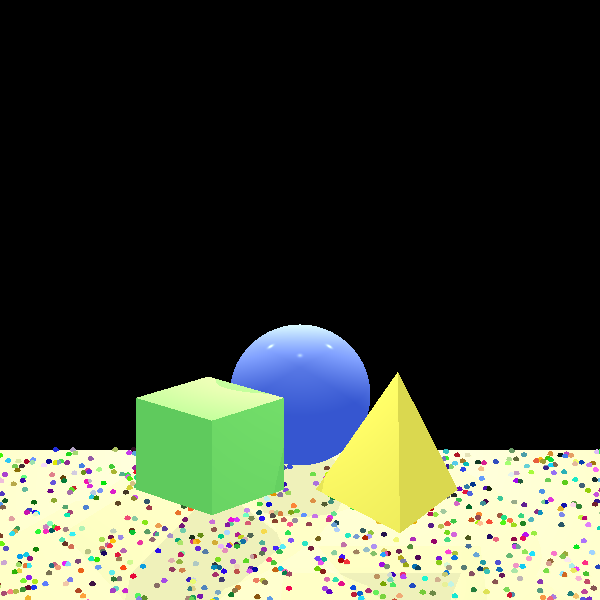
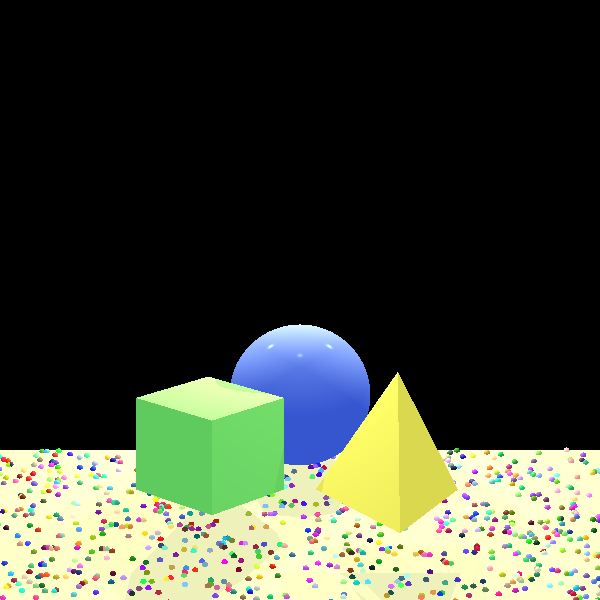
עוד מעט בעז"הה

Changed region(s): [[0.0, 0.75, 1.0, 1.0]]

diff --git a/src/geometries/Intersectable.java b/src/geometries/Intersectable.java
@@ -2,6 +2,7 @@ package geometries;
 
 import primitives.Point3D;
 import primitives.Ray;
+import primitives.Vector;
 
 import java.util.List;
 import java.util.stream.Collectors;
@@ -93,22 +94,33 @@ public interface Intersectable {
     /**
      * class for box of every intersectable for BVH
      */
-    public class Box {
+    class Box {
         private Point3D _upRightBehind;//the up right point
         private Point3D _downLeftFront;//the down left point
         private Point3D _center;//the center point, for the distance between the boxes
 
+        /**
+         * constructor
+         * @param upRightBehind
+         * @param downLeftFront
+         * @param center
+         */
         public Box(Point3D upRightBehind, Point3D downLeftFront, Point3D center) {
             _upRightBehind = upRightBehind;
             _downLeftFront = downLeftFront;
             _center = center;
         }
 
+        /**
+         * default constructor
+         */
         public Box() {
             _upRightBehind = new Point3D(0, 0, 0);
             _downLeftFront = new Point3D(0, 0, 0);
             _center = new Point3D(0, 0, 0);
         }
+
+
 
         //getters
         public Point3D getUpRightBehind() {
@@ -134,6 +146,81 @@ public interface Intersectable {
 
         public void setCenter(Point3D center) {
             _center = center;
+        }
+
+        public boolean isIntersectBox(Ray ray){
+            Point3D P0=ray.getP0();
+            double xP0=P0.getX();
+            double yP0=P0.getY();
+            double zP0=P0.getZ();
+
+            Vector dir=ray.getDir();
+            double xDir=dir.getHead().getX();
+            double yDir=dir.getHead().getY();
+            double zDir=dir.getHead().getZ();
+
+            double xMin=_upRightBehind.getX();
+            double yMin=_upRightBehind.getY();
+            double zMin=_upRightBehind.getZ();
+            double xMax=_downLeftFront.getX();
+            double yMax=_downLeftFront.getY();
+            double zMax=_downLeftFront.getZ();
+
+            double tMinX,tMaxX;
+
+            if(xDir>=0){//the value x of the vector is positive
+                tMinX=(xMin-xP0)/xDir;
+                tMaxX=(xMax-xP0)/xDir;
+            }
+            else{
+                tMinX=(xMax-xP0)/xDir;
+                tMaxX=(xMin-xP0)/xDir;
+            }
+
+            double tMinY,tMaxY;
+
+            if(yDir>=0){
+                tMinY=(yMin-yP0)/yDir;
+                tMaxY=(yMax-yP0)/yDir;
+            }
+            else{
+                tMinY=(yMax-yP0)/yDir;
+                tMaxY=(yMin-yP0)/yDir;
+            }
+
+            if((tMinX>tMaxY)||(tMinY>tMaxX)){
+                return false;
+            }
+
+            if(tMinY>tMinX){//????
+                tMinX=tMinY;
+            }
+            if(tMaxY<tMaxX){
+                tMaxX=tMaxY;
+            }
+
+            double tMinZ,tMaxZ;
+
+            if(zDir>=0){
+                tMinZ=(zMin-zP0)/zDir;
+                tMaxZ=(zMax-zP0)/zDir;
+            }
+            else{
+                tMinZ=(zMax-zP0)/zDir;
+                tMaxZ=(zMin-zP0)/zDir;
+            }
+
+            if((tMinX>tMaxZ)||(tMinZ>tMaxX)){
+                return false;
+            }
+
+            if(tMinZ>tMinX){
+                tMinX=tMinZ;
+            }
+            if(tMaxZ<tMaxX){
+                tMaxX=tMaxZ;
+            }
+            return true;
         }
 
     }

diff --git a/src/geometries/Geometries.java b/src/geometries/Geometries.java
@@ -12,8 +12,23 @@ import java.util.List;
 public class Geometries implements Intersectable {
 
     List<Intersectable> _listGeometries = new LinkedList<>();
-    //field for box of couple of boxes. to union
+    /**
+     * field for box of couple of boxes, to union both boxes
+     */
     Box _box = new Box();
+
+    /**
+     * field to check if the BVH improvement is off or on (false is on, true is off)
+     */
+    boolean _BVHImprovementOff=true;
+
+    /**
+     * setter for the on/off improvement
+     * @param BVH
+     */
+    public void setBVHImprovementOff(boolean BVH) {
+        _BVHImprovementOff = BVH;
+    }
 
     /**
      * setter for the box
@@ -67,16 +82,18 @@ public class Geometries implements Intersectable {
     public List<GeoPoint> findGeoIntersections(Ray ray, double maxDistance) {
         List<GeoPoint> intersections = null;
         for (Intersectable geometry : _listGeometries) {
-            List<GeoPoint> geoIntersections = geometry.findGeoIntersections(ray, maxDistance);
-            //if the list is not empty
-            if (geoIntersections != null) {
-                //if it is the first time to add intersection
-                if (intersections == null) {
-                    intersections = new LinkedList<>();
+            if (_BVHImprovementOff || geometry.getBox().isIntersectBox(ray)) {//check if the ray intersect the box of the geometry at all
+                List<GeoPoint> geoIntersections = geometry.findGeoIntersections(ray, maxDistance);
+                //if the list is not empty
+                if (geoIntersections != null) {
+                    //if it is the first time to add intersection
+                    if (intersections == null) {
+                        intersections = new LinkedList<>();
+                    }
+                    intersections.addAll(geoIntersections);
                 }
-                intersections.addAll(geoIntersections);
+                // if there are elements in geoIntersections – add them to intersections
             }
-            // if there are elements in geoIntersections – add them to intersections
         }
         return intersections;
     }
@@ -103,6 +120,12 @@ public class Geometries implements Intersectable {
         return new Box(p1, p2, p3);
     }
 
+    /**
+     * function that build the 'tree' that save the geometries
+     * we build it as list inside list
+     * at first we remove all the infinity geometries from the list
+     * then we insert all the finite geometries to the binary tree
+     */
     public void buildHierarchicalBVH() {
         //remove all the infinity geometries from the list
         List<Intersectable> inifinityGeometries=new LinkedList<>();

diff --git a/test/renderer/ReflectionRefractionTests.java b/test/renderer/ReflectionRefractionTests.java
@@ -219,19 +219,23 @@ public class ReflectionRefractionTests {
     double x= Math.random()*100+1;
     double y=(Math.random()*100+50)*-1;
         for (int i = 0; i < 1000; i++) {
-            scene._geometries.add(new Sphere(new Point3D(x,y,(-5*y-250)/3),1).setEmission(new Color(Math.random()*255+1,Math.random()*255+1,Math.random()*255+1)));
+            scene._geometries.add(new Sphere(new Point3D(x,y,(-5*y-250)/3),1).setEmission(new Color(Math.random()*255+1,Math.random()*255+1,Math.random()*255+1))
+            .setMaterial(new Material().setKd(0.8).setkT(0.02).setkR(0).setKs(1).setnShininess(300)));
              x= Math.random()*100+1;
              y=(Math.random()*110+50)*-1;
 
         }
 
         for (int i = 0; i < 1000; i++) {
-            scene._geometries.add(new Sphere(new Point3D(x,y,(-5*y-250)/3),1).setEmission(new Color(Math.random()*255+1,Math.random()*255+1,Math.random()*255+1)));
+            scene._geometries.add(new Sphere(new Point3D(x,y,(-5*y-250)/3),1).setEmission(new Color(Math.random()*255+1,Math.random()*255+1,Math.random()*255+1))
+                    .setMaterial(new Material().setKd(0.8).setkT(0.02).setkR(0).setKs(1).setnShininess(300)));
             x= (Math.random()*100+1)*-1;
             y=(Math.random()*110+50)*-1;
         }
 
-//
+        //scene._geometries.buildHierarchicalBVH();
+       // scene._geometries.setBVHImprovementOff(false);
+
         //we add source light- spot one, with discount coefficients. We wanted the light not to be too strong so we set the coefficient kc quite high and also kl not really low
         scene._lights.add(new SpotLight(new Color(255, 253, 160), new Point3D(0, 64, 70), new Vector(0, -5, 1)).setKc(0.8).setKl(0.03));
         //we add source light- spot one, with discount coefficients. We wanted the light not to be too strong so we set the coefficient kc quite high and also kl not really low
